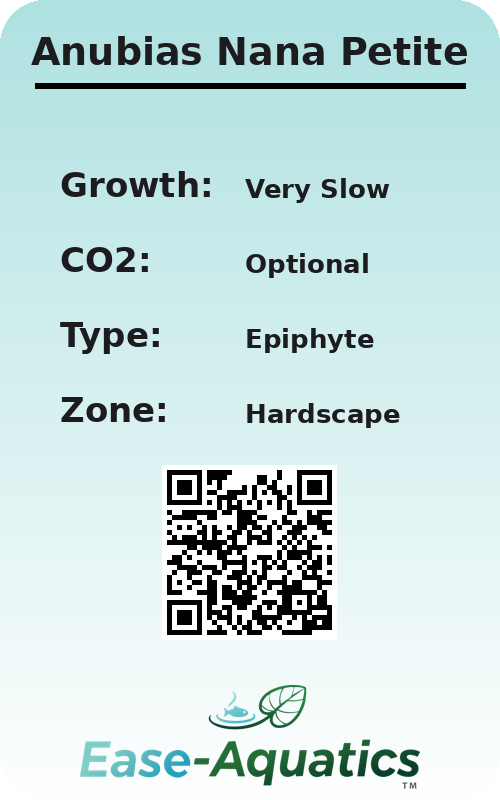
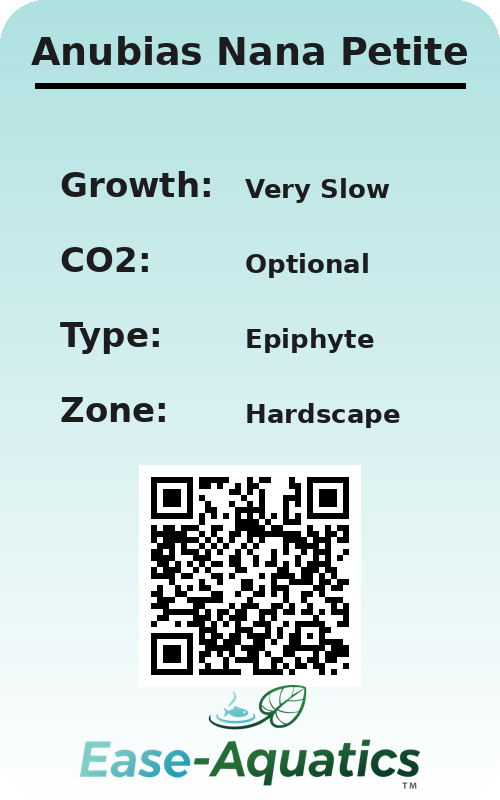
fixed qrs

Changed region(s): [[0.27, 0.5625, 0.72, 0.8438]]

diff --git a/qr_gen.py b/qr_gen.py
@@ -6,8 +6,8 @@ from PIL import Image, ImageDraw, ImageFont
 Image.MAX_IMAGE_PIXELS = None 
 
 # --- SETTINGS ---
-# Updated to your new custom domain
-BASE_URL = "https://www.ease-aquatics.co.za"
+# Updated to your verified custom domain
+BASE_URL = "https://ease-aquatics.co.za"
 LOGO_FILE = "dist/img/SimpleLogo.png" 
 LABEL_DIR = "Final_Branded_Stickers"
 
@@ -72,6 +72,7 @@ def create_branded_sticker(plant):
         except:
             temp_font = ImageFont.load_default()
             
+        # Use textbbox to ensure name fits perfectly within sticker width
         left, top, right, bottom = draw.textbbox((0, 0), name_text, font=temp_font)
         text_width = right - left
         
@@ -109,17 +110,23 @@ def create_branded_sticker(plant):
         draw.text((60, curr_y), label, fill=TEXT_DARK, font=f_label)
         draw.text((245, curr_y + 8), val, fill=TEXT_DARK, font=f_val)
 
-    # 3. QR Code - Updated to point to the new domain
-    # Change '.html' to match your catalog structure (e.g., catalog/monte-carlo.html)
-    qr_url = f"{BASE_URL}/{plant['id']}.html"
-    qr = qrcode.QRCode(box_size=5, border=1) 
+    # 3. QR Code - Clean URL configuration
+    # Pointing to extensionless URLs which GitHub Pages resolves automatically
+    qr_url = f"{BASE_URL}/{plant['id']}"
+    qr = qrcode.QRCode(
+        version=1,
+        error_correction=qrcode.constants.ERROR_CORRECT_M, # Improved for better scannability
+        box_size=6, # Slightly larger pixels for easier mobile scanning
+        border=2
+    ) 
     qr.add_data(qr_url)
     qr.make(fit=True)
+    
     qr_img = qr.make_image(fill_color="black", back_color="white").convert("RGBA")
     qr_x = (500 - qr_img.width) // 2
     canvas.paste(qr_img, (qr_x, 465), qr_img) 
 
-    # 4. Logo
+    # 4. Logo section
     try:
         logo = Image.open(LOGO_FILE).convert("RGBA")
         logo.thumbnail((340, 150))
@@ -127,6 +134,7 @@ def create_branded_sticker(plant):
         y_logo = 685 
         canvas.paste(logo, (x_logo, y_logo), logo)
     except:
+        # Fallback text if logo file is missing
         draw.text((250, 740), "Ease-Aquatics™", fill=TEXT_DARK, font=f_label, anchor="ms")
 
     canvas = add_corners(canvas, CORNER_RADIUS)
